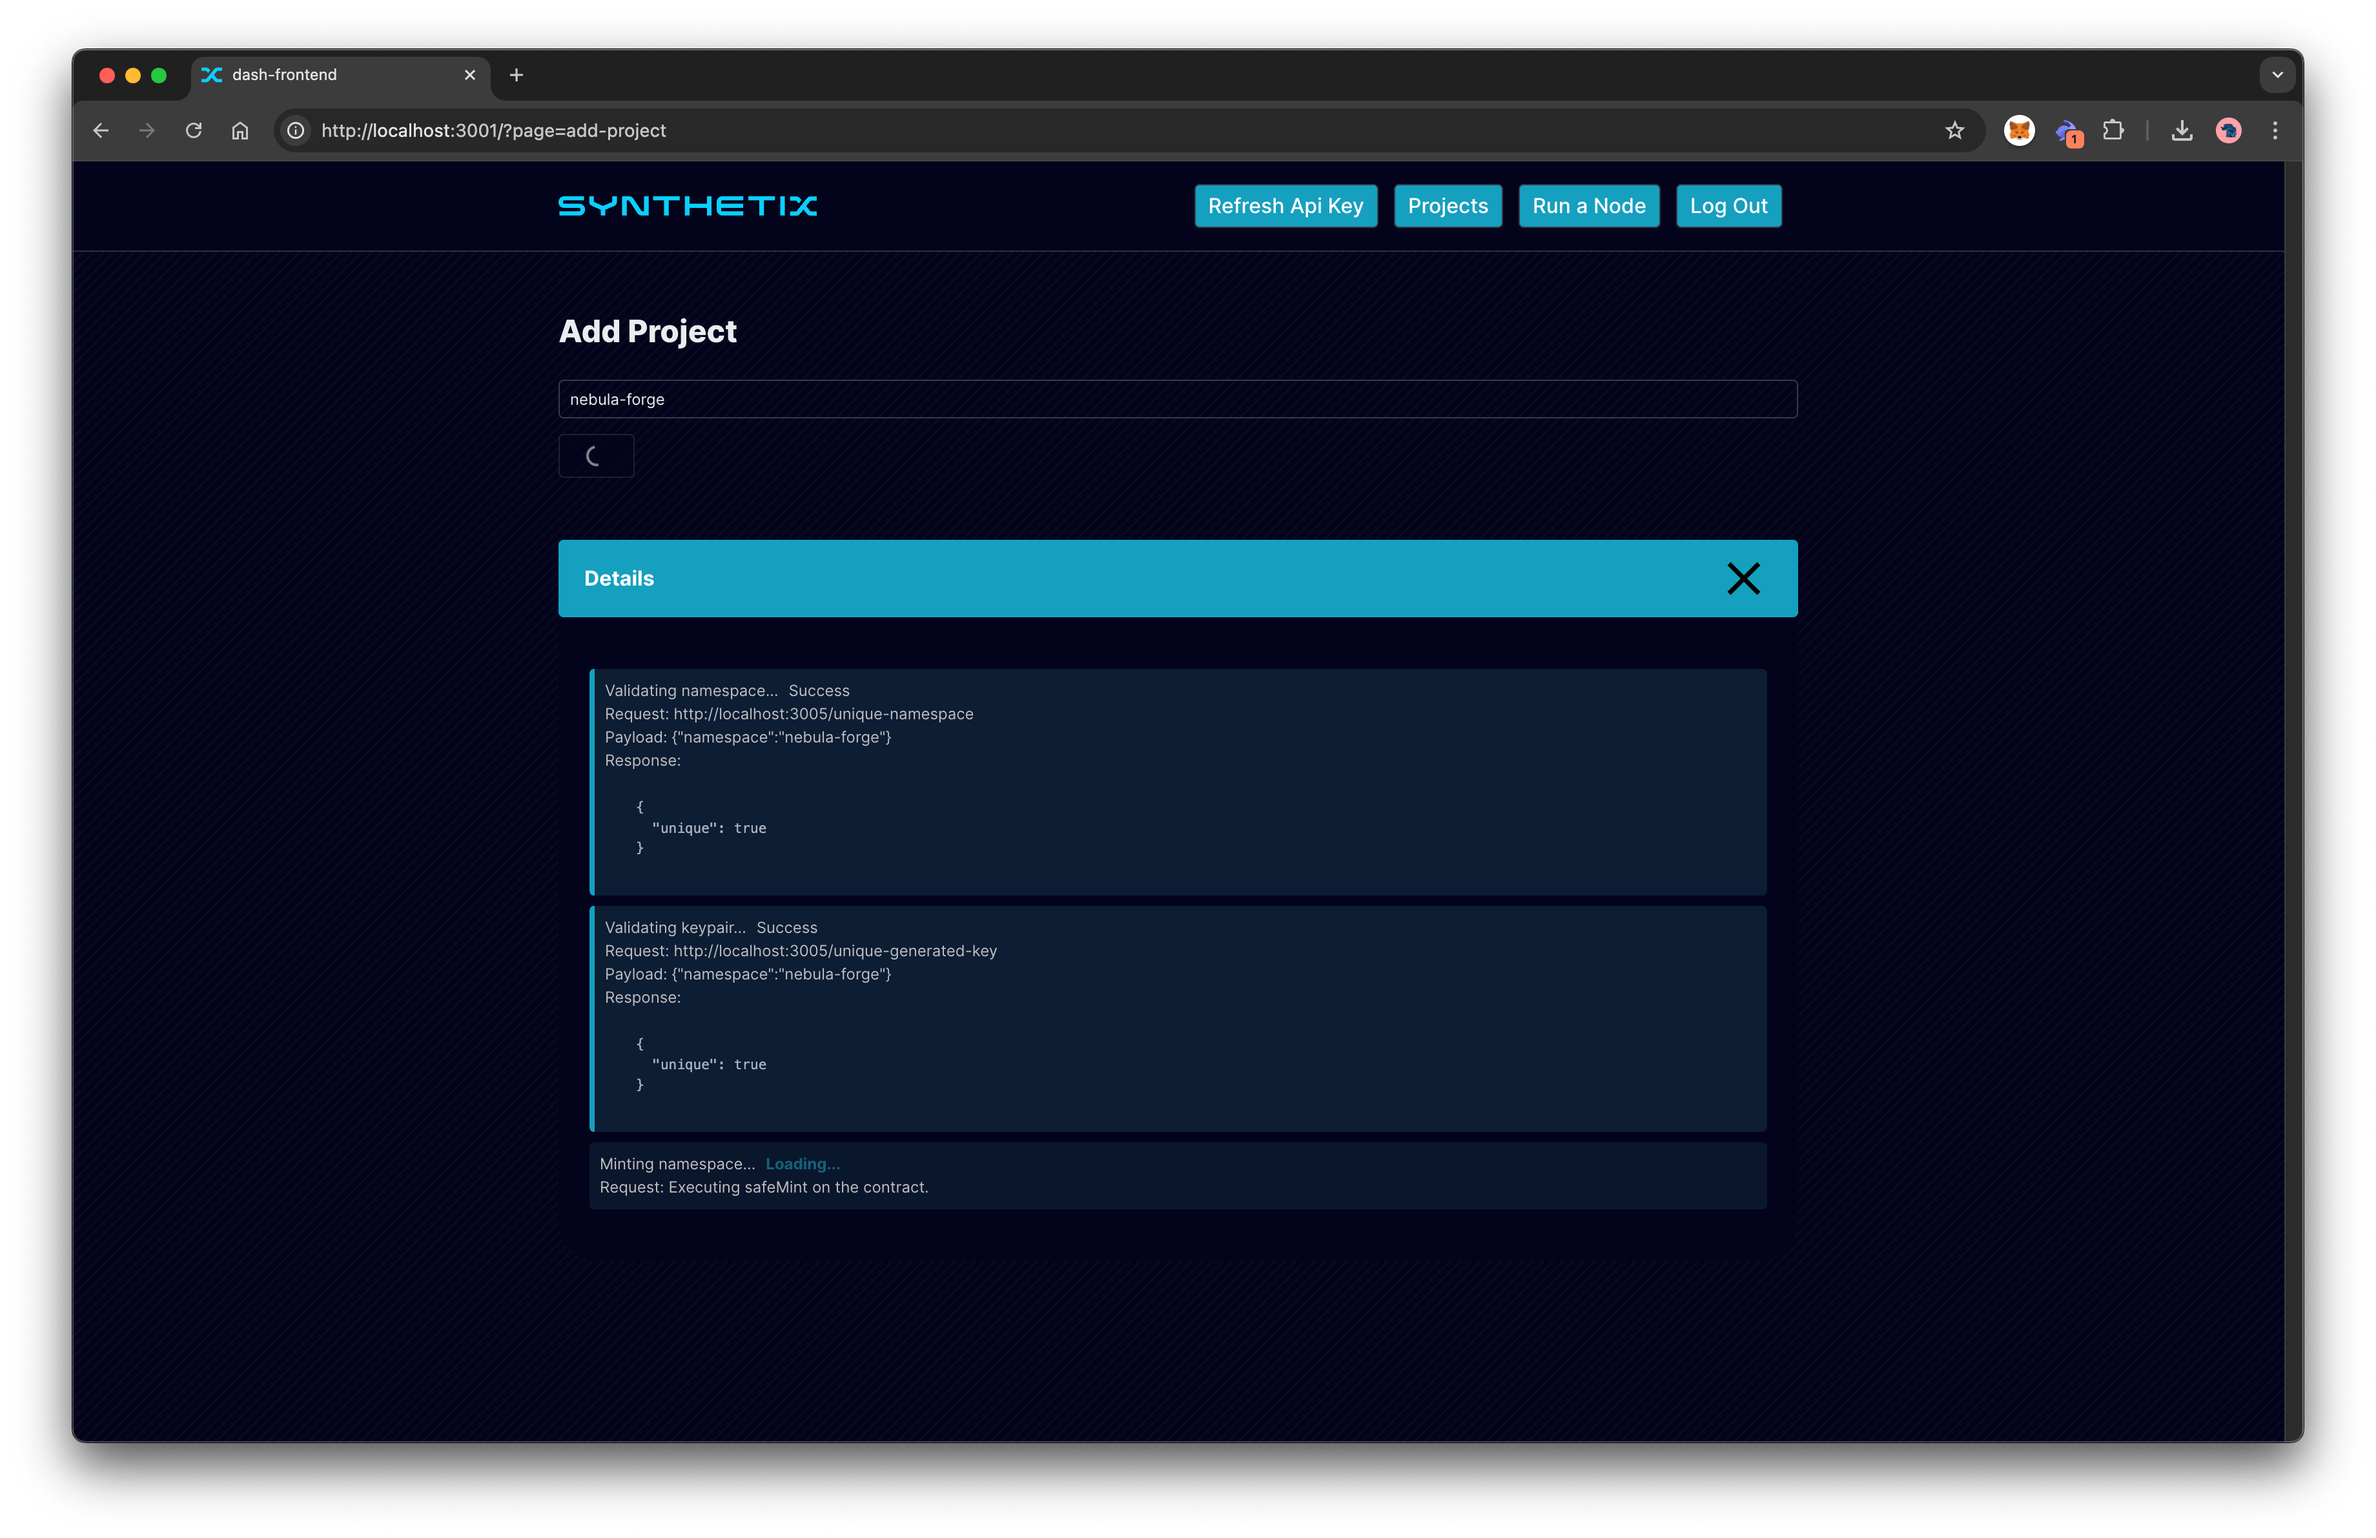
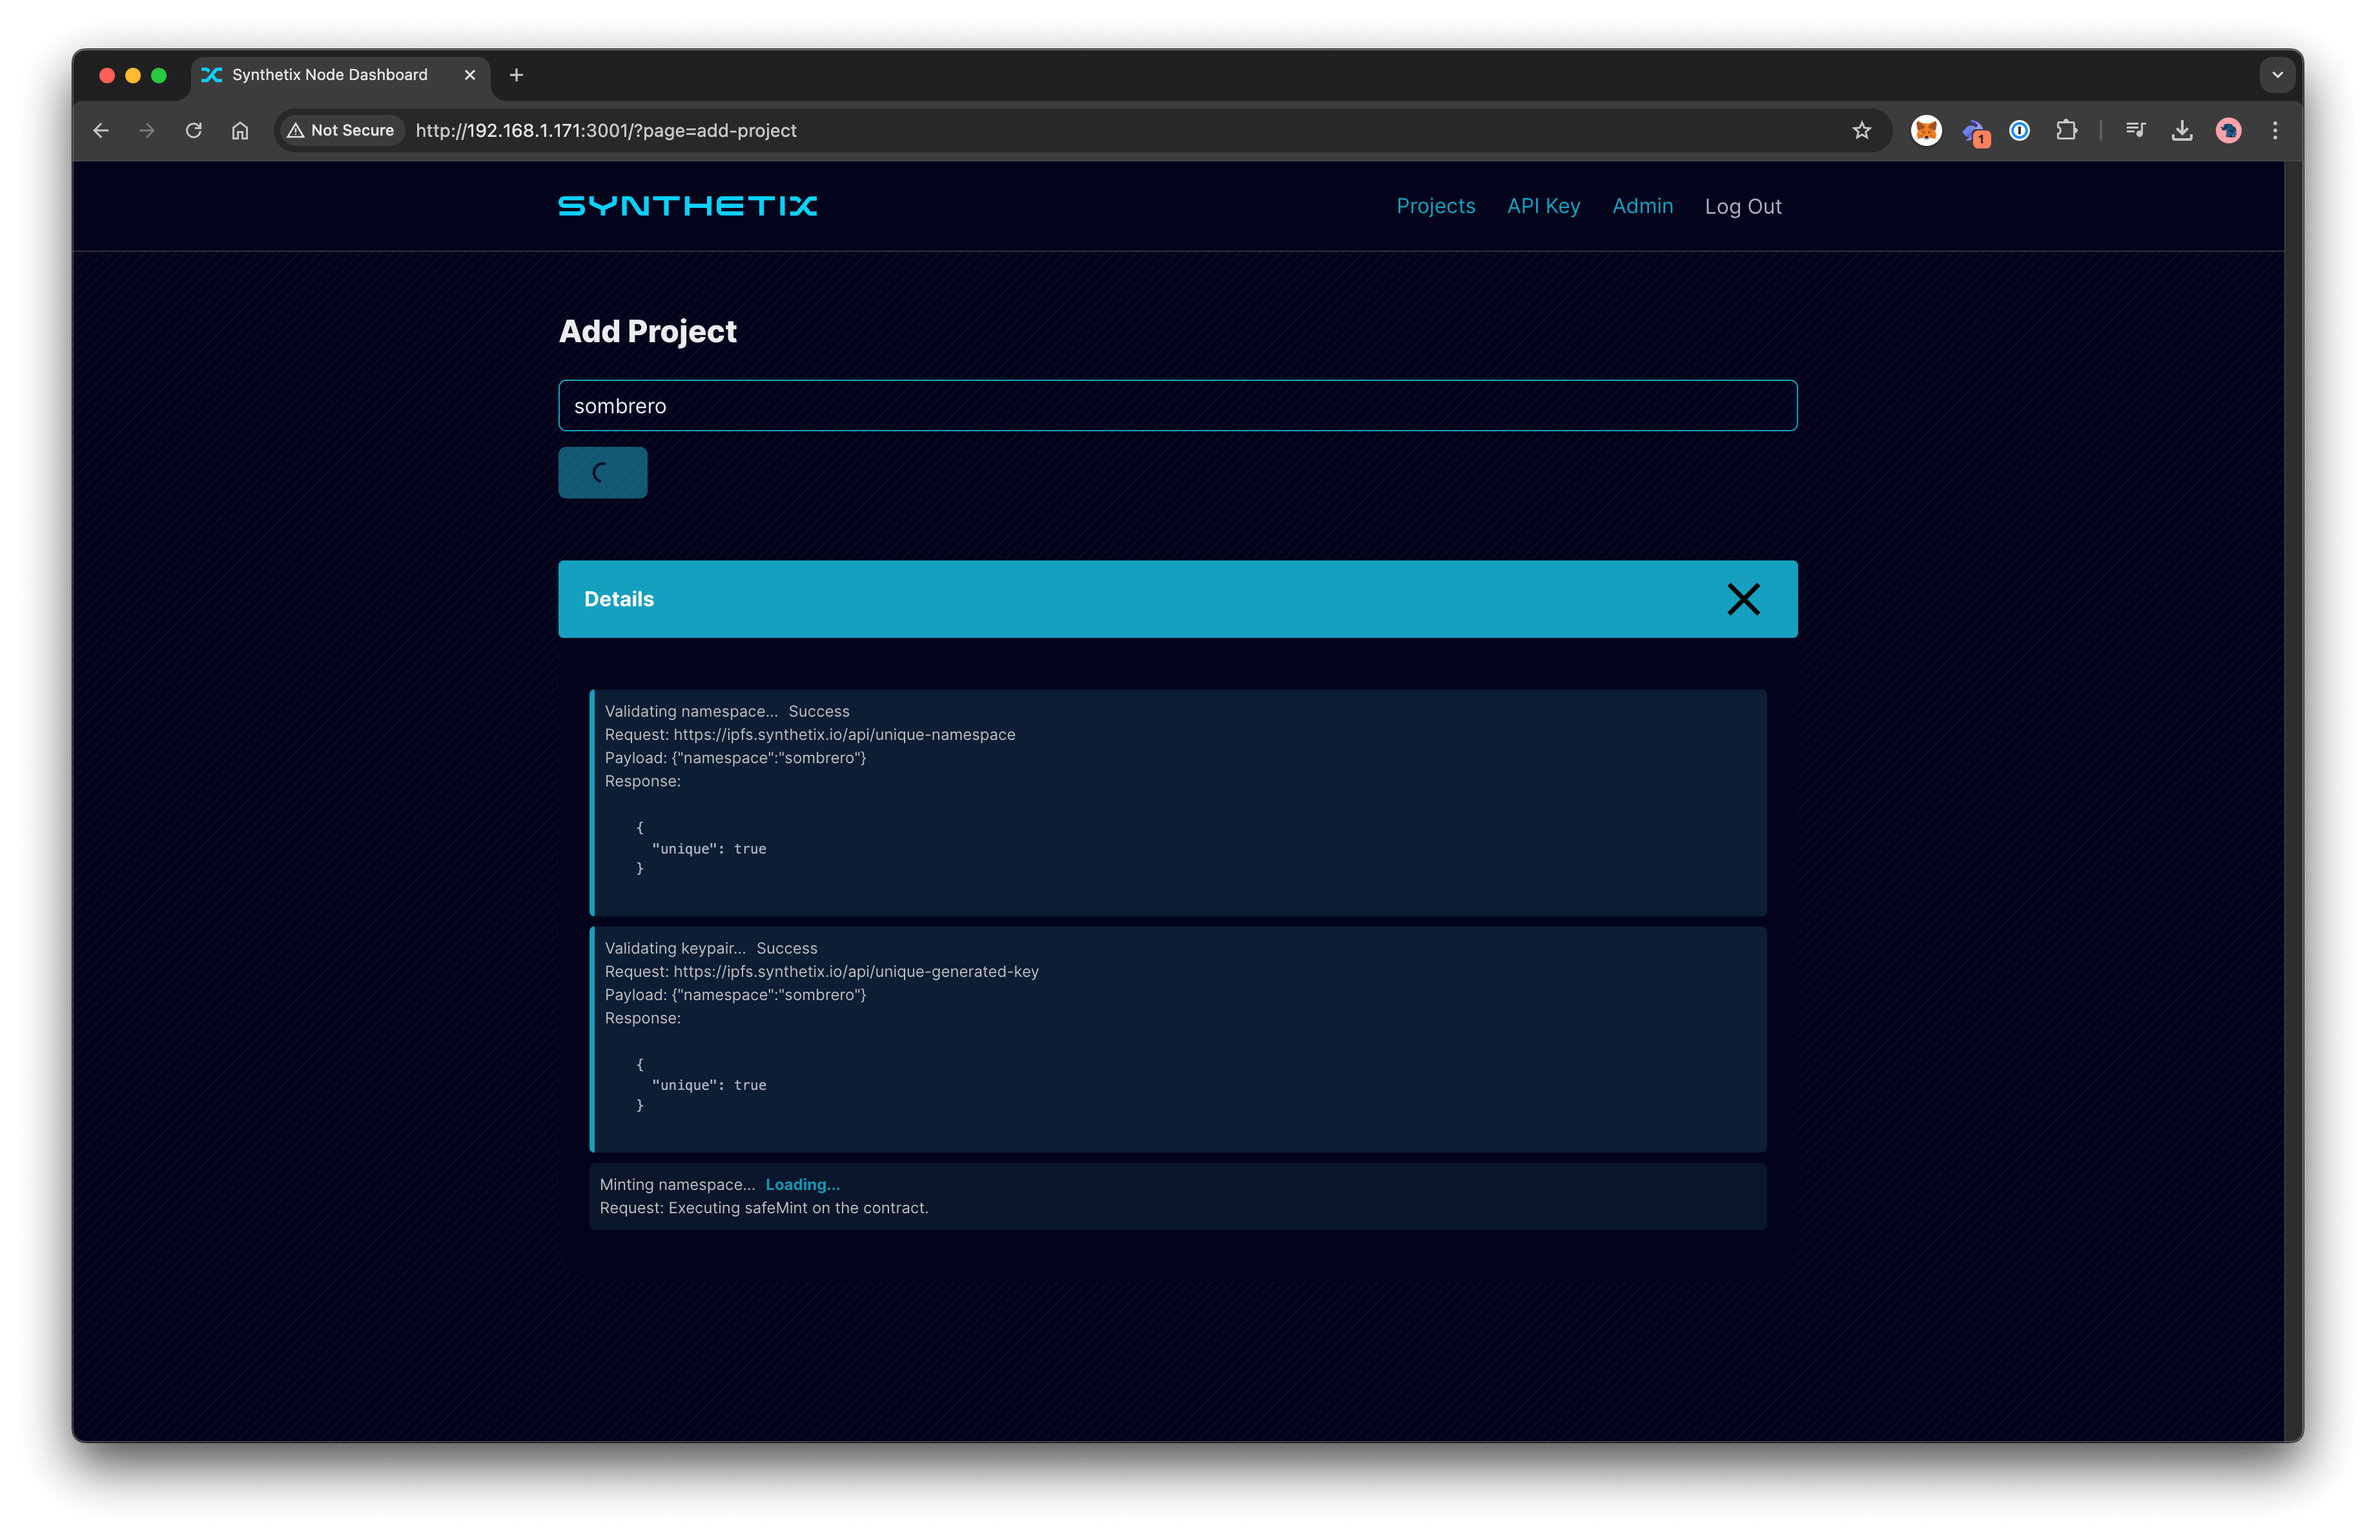
Update screenshots (#10)
* Update screenshots part 1

* Update screenshots

* Normalise api

diff --git a/README-ADVANCED.md b/README-ADVANCED.md
@@ -1,4 +1,7 @@
-### This guide provides step-by-step instructions to upload and publish a DApp project using the command line.
+## Overview
+This guide provides step-by-step instructions to upload and publish a DApp project using the command line.
+
+---
 
 ## Prerequisites
 
@@ -26,7 +29,7 @@ Your `NAMESPACE` must meet the following requirements:
 To ensure your namespace is unique, execute the following command in the terminal:
 
 ```bash
-curl -s -X POST "${API_URL}unique-namespace" \
+curl -s -X POST "${API_URL}/api/unique-namespace" \
 -H "Authorization: Bearer $JWT_TOKEN" \
 -H "Content-Type: application/json" \
 -d '{"namespace":"'"$NAMESPACE"'"}' | jq -r '.unique'
@@ -37,7 +40,7 @@ curl -s -X POST "${API_URL}unique-namespace" \
 To ensure your generated key is unique, execute the following command in the terminal:
 
 ```bash
-curl -s -X POST "${API_URL}unique-generated-key" \
+curl -s -X POST "${API_URL}/api/unique-generated-key" \
 -H "Authorization: Bearer $JWT_TOKEN" \
 -H "Content-Type: application/json" \
 -d '{"key":"'"$NAMESPACE"'"}' | jq -r '.unique'
@@ -58,7 +61,7 @@ cast send $CONTRACT_ADDRESS "safeMint(string)" "$NAMESPACE" \
 Generate a key pair for the namespace:
 
 ```bash
-curl -s -X POST "${API_URL}api/v0/key/gen?arg=$NAMESPACE&type=rsa" \
+curl -s -X POST "${API_URL}/api/v0/key/gen?arg=$NAMESPACE&type=rsa" \
   -H "Authorization: Bearer $JWT_TOKEN" \
   -H "Content-Type: application/json" | jq
 ```
@@ -87,7 +90,7 @@ node generateCarBlob.js
 Import the generated CAR file using the following command:
 
 ```bash
-curl -s -X POST "${API_URL}api/v0/dag/import?pin-roots=true" \
+curl -s -X POST "${API_URL}/api/v0/dag/import?pin-roots=true" \
   -H "Authorization: Bearer $JWT_TOKEN" \
   -F "file=@$(find car_files -type f -name "*.car")" | jq
 ```
@@ -99,7 +102,7 @@ Ensure the `car_files` directory contains the CAR file generated in the previous
 Fetch the DAG content:
 
 ```bash
-curl -s -X POST "${API_URL}api/v0/dag/get?arg=<PASTE_ROOT_CID_HERE>" \
+curl -s -X POST "${API_URL}/api/v0/dag/get?arg=<PASTE_ROOT_CID_HERE>" \
   -H "Authorization: Bearer $JWT_TOKEN" \
   -H "Content-Type: application/json" | jq
 ```
@@ -111,7 +114,7 @@ curl -s -X POST "${API_URL}api/v0/dag/get?arg=<PASTE_ROOT_CID_HERE>" \
 Publish the name linked to the Root CID:
 
 ```bash
-curl -s -X POST "${API_URL}api/v0/name/publish?key=<PASTE_KEY_NAME_HERE>&arg=/ipfs/<PASTE_ROOT_CID_HERE>&ttl=10s" \
+curl -s -X POST "${API_URL}/api/v0/name/publish?key=<PASTE_KEY_NAME_HERE>&arg=/ipfs/<PASTE_ROOT_CID_HERE>&ttl=10s" \
   -H "Authorization: Bearer $JWT_TOKEN" \
   -H "Content-Type: application/json" | jq
 ```

diff --git a/README.md b/README.md
@@ -62,6 +62,9 @@ Click on the project name to manage it:
 2. IPFS will:
     - Automatically import the folder's contents.
     - Pin the data for distribution.
+3. A list of CIDs for this project:
+    - Delete CID.
+    - Retrieve data by CID.
 
 #### Publish
 After uploading:
